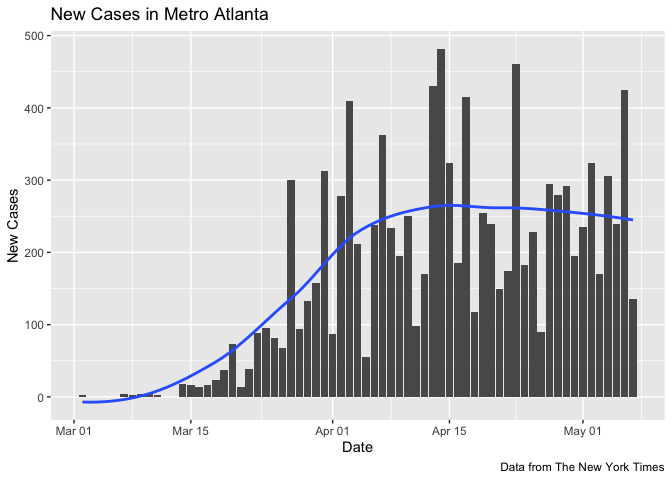
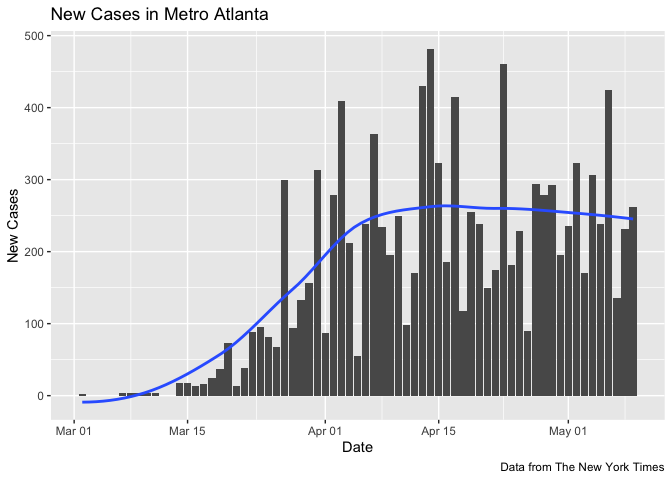
Updated data

diff --git a/Metro_Atlanta_COVID.md b/Metro_Atlanta_COVID.md
@@ -16,7 +16,7 @@ It’s hard to know how to interpret these numbers since there are major
 known unknowns. Neither confirmed cases nor deaths can be said to be
 reliable counts of the true numbers.
 
-Data current as of May 08,
+Data current as of May 11,
 2020.
 
 # Metro Atlanta
